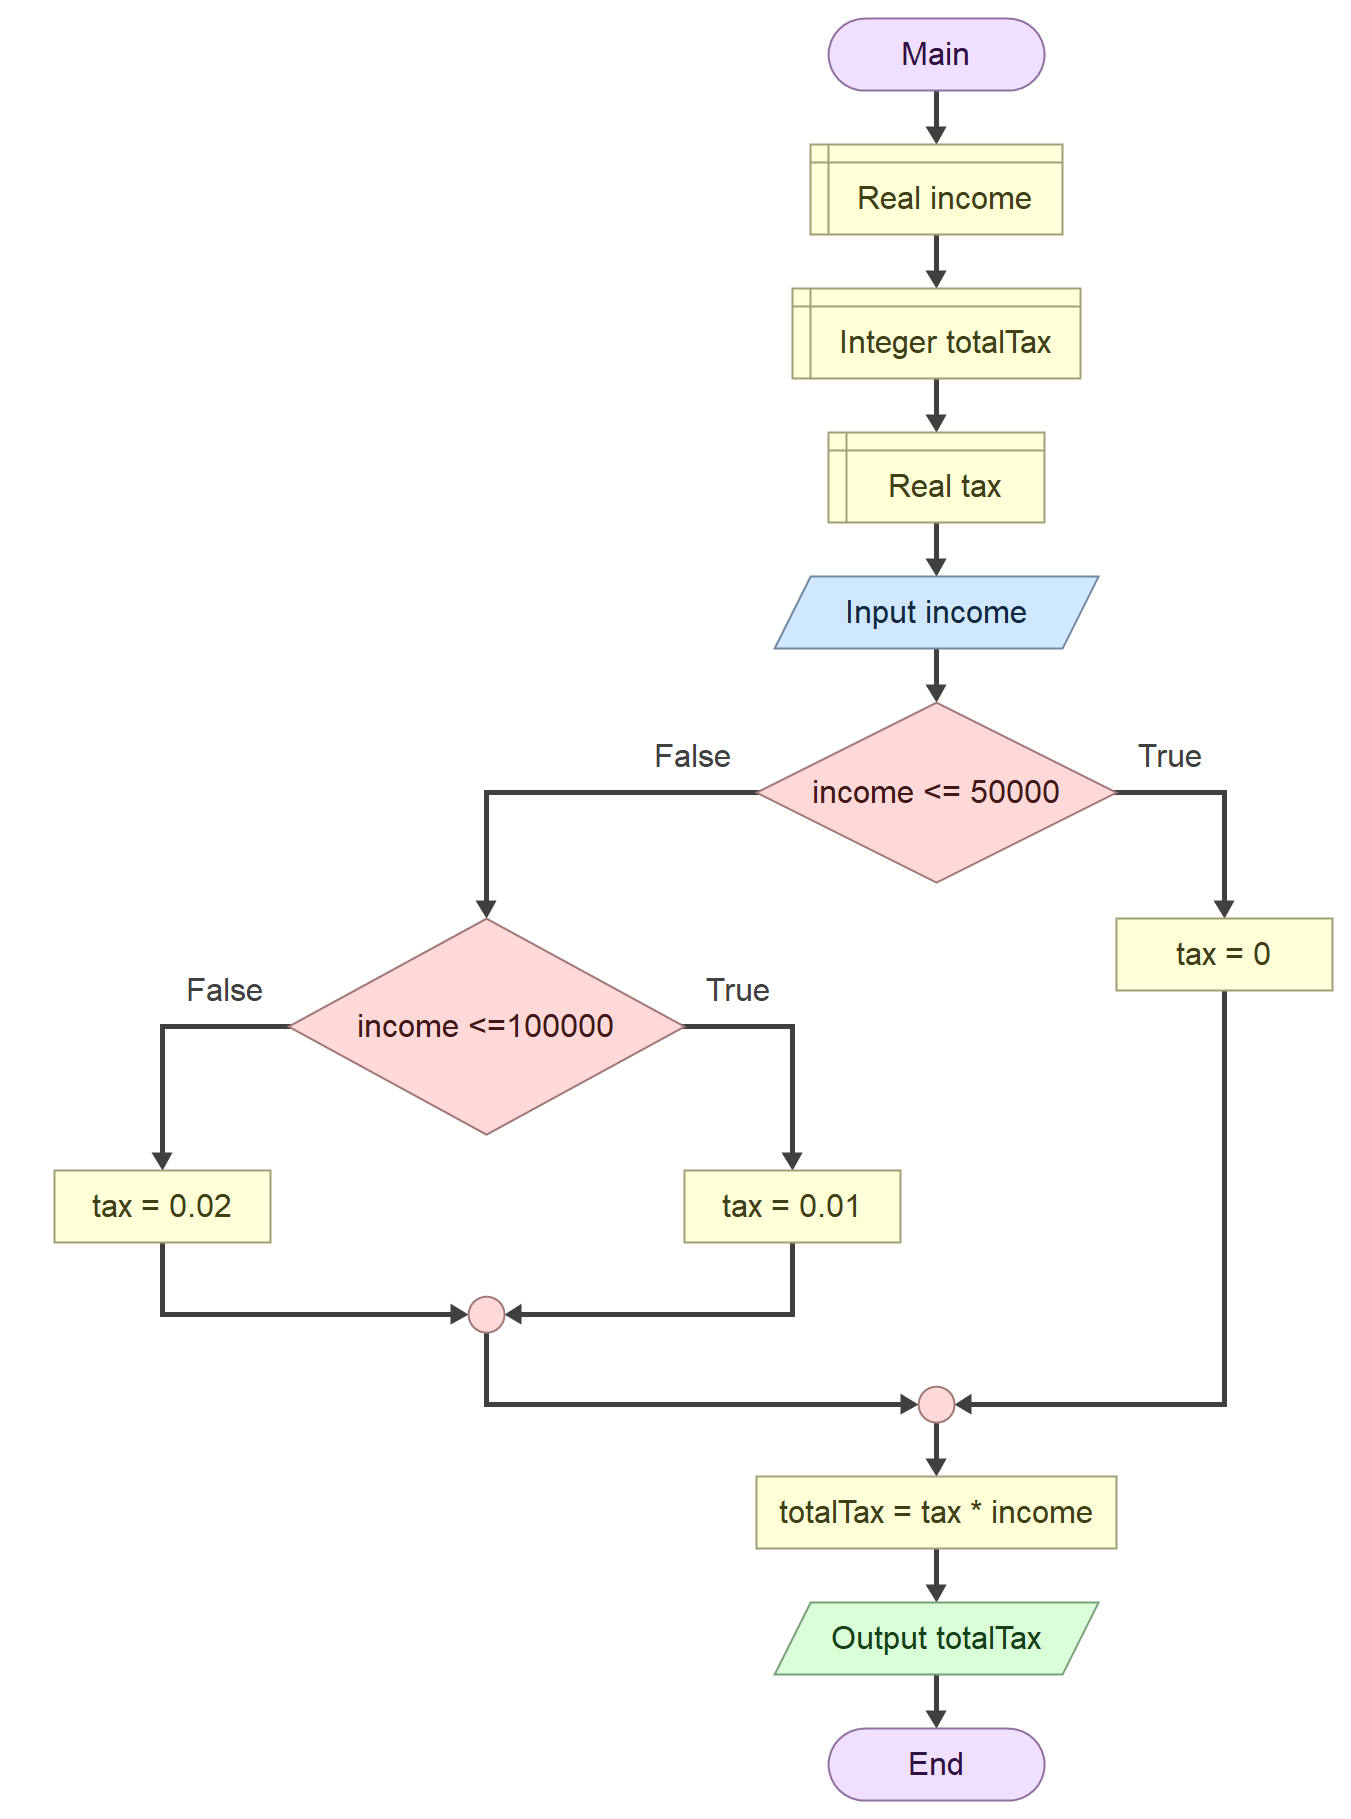
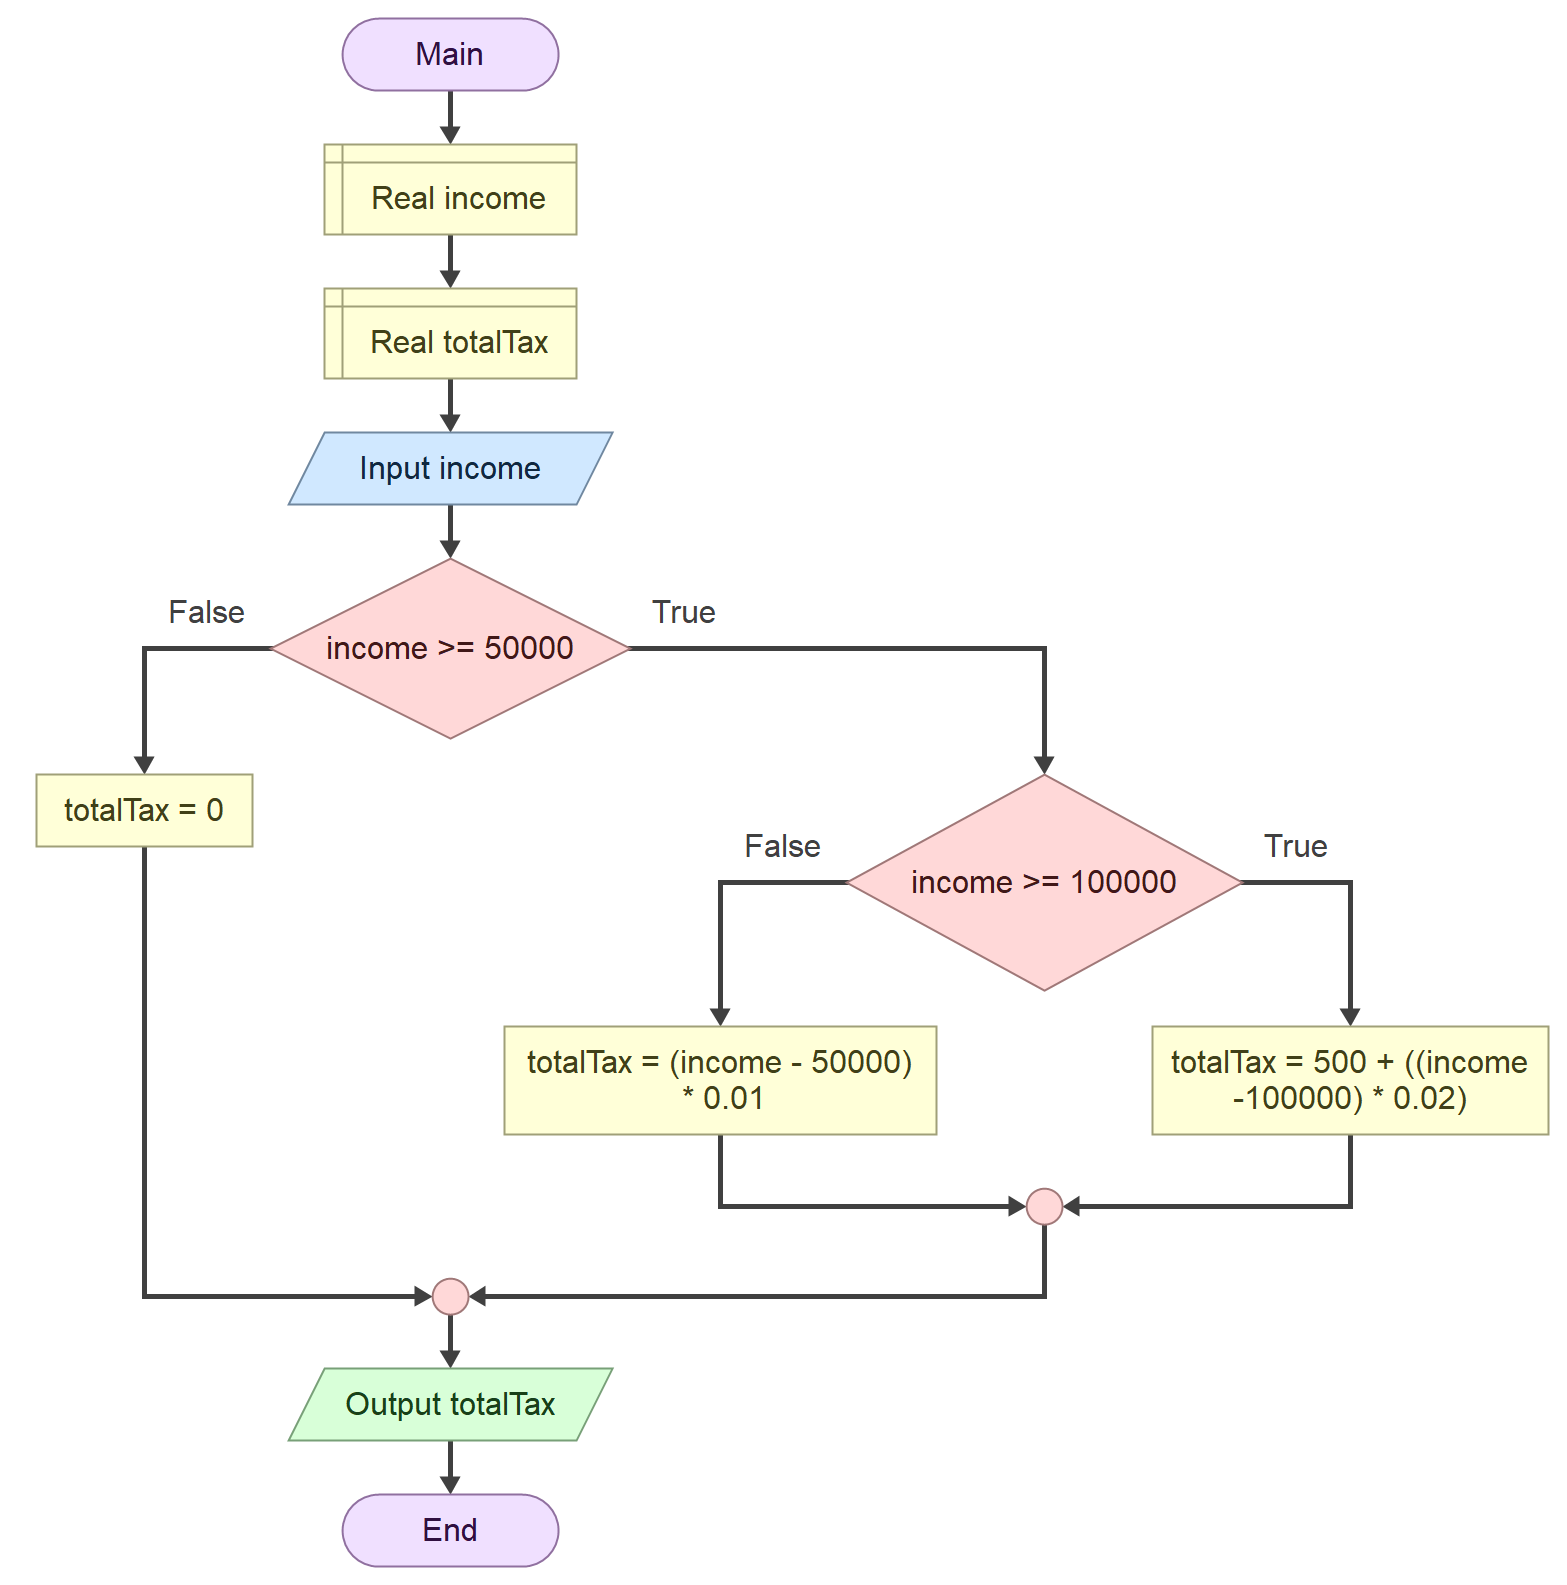
ex2

Changed region(s): [[0.0, 0.0, 0.9948, 1.0]]

diff --git a/labs/lab04/exercise2/lab-4-2.py b/labs/lab04/exercise2/lab-4-2.py
@@ -1,10 +1,9 @@
 income = float(input())
-if income <= 50000:
-    tax = 0
-else:
-    if income <= 100000:
-        tax = 0.01
+if income >= 50000:
+    if income >= 100000:
+        totalTax = 500 + income - 100000 * 0.02
     else:
-        tax = 0.02
-totalTax = tax * income
+        totalTax = income - 50000 * 0.01
+else:
+    totalTax = 0
 print(totalTax)